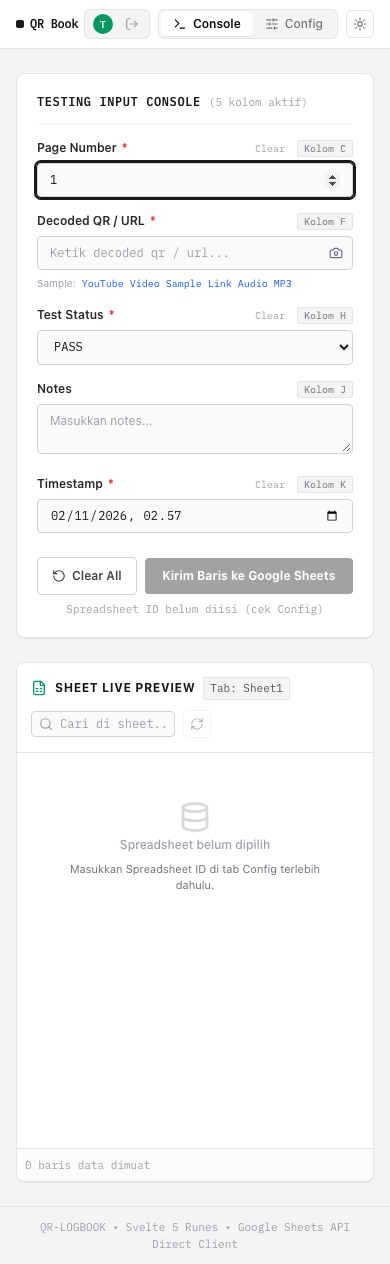
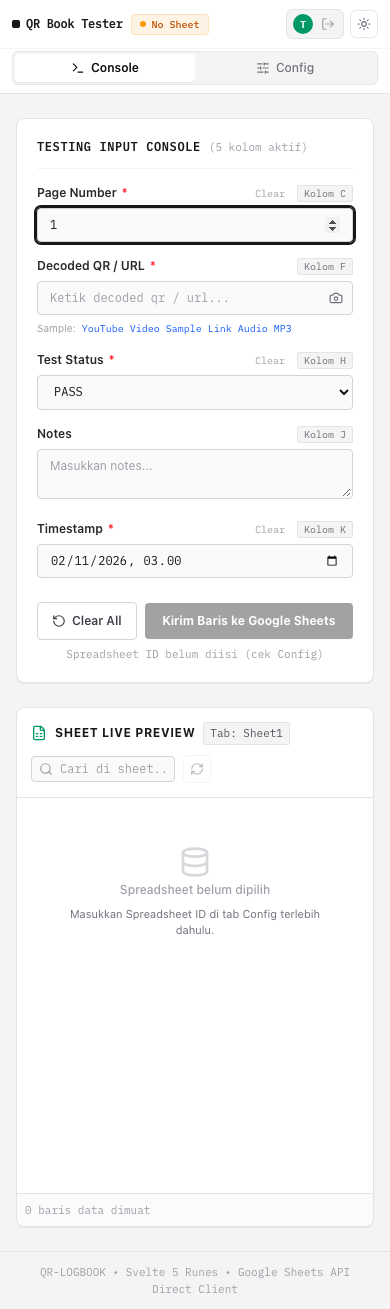
style(header): improve responsive layout with segmented mobile tabs

diff --git a/src/lib/components/Header.svelte b/src/lib/components/Header.svelte
@@ -25,7 +25,7 @@
 </script>
 
 <header class="border-b border-zinc-200 dark:border-zinc-800 bg-white dark:bg-zinc-950 sticky top-0 z-30 transition-colors">
-  <div class="max-w-[1240px] mx-auto px-4 sm:px-6 h-12 flex items-center justify-between">
+  <div class="max-w-[1240px] mx-auto px-3 sm:px-6 h-12 flex items-center justify-between gap-2">
     <!-- Brand & Spreadsheet Target ID -->
     <div class="flex items-center gap-2 sm:gap-3 min-w-0">
       <div class="flex items-center gap-1.5 shrink-0">
@@ -40,29 +40,30 @@
       <!-- Spreadsheet connection status badge -->
       {#if appState.config.spreadsheetId}
         <span
-          class="inline-flex items-center gap-1 text-[10px] sm:text-[11px] font-mono-data font-medium text-emerald-700 dark:text-emerald-400 bg-emerald-500/10 px-1.5 sm:px-2 py-0.5 rounded-sm border border-emerald-500/20 truncate"
+          class="inline-flex items-center gap-1.5 text-[10px] sm:text-[11px] font-mono-data font-medium text-emerald-700 dark:text-emerald-400 bg-emerald-500/10 px-2 py-0.5 rounded-sm border border-emerald-500/20 truncate max-w-[110px] sm:max-w-[260px]"
           title={`Target Spreadsheet: ${appState.config.spreadsheetId} (${appState.config.sheetName || 'Pilih Tab'})`}
         >
           <span class="w-1.5 h-1.5 rounded-full bg-emerald-500 shrink-0"></span>
           <span class="hidden sm:inline">Sheets: {appState.config.spreadsheetId.slice(0, 8)}... ({appState.config.sheetName || 'Tab belum dipilih'})</span>
-          <span class="sm:hidden">Sheets</span>
+          <span class="sm:hidden truncate">{appState.config.sheetName || 'Connected'}</span>
         </span>
       {:else}
         <span
-          class="inline-flex items-center gap-1 text-[10px] sm:text-[11px] font-mono-data font-medium text-amber-700 dark:text-amber-400 bg-amber-500/10 px-1.5 sm:px-2 py-0.5 rounded-sm border border-amber-500/20 truncate"
+          class="inline-flex items-center gap-1.5 text-[10px] sm:text-[11px] font-mono-data font-medium text-amber-700 dark:text-amber-400 bg-amber-500/10 px-2 py-0.5 rounded-sm border border-amber-500/20 truncate"
           title="Spreadsheet belum diisi. Masukkan di tab Config."
         >
           <span class="w-1.5 h-1.5 rounded-full bg-amber-500 shrink-0"></span>
-          <span>Spreadsheet Not Set</span>
+          <span class="hidden sm:inline">Spreadsheet Not Set</span>
+          <span class="sm:hidden">No Sheet</span>
         </span>
       {/if}
     </div>
 
-    <!-- Right Controls: Google OAuth Profile, Navigation & Theme -->
-    <div class="flex items-center gap-2">
+    <!-- Right Controls: Google OAuth Profile, Desktop Nav & Theme -->
+    <div class="flex items-center gap-1.5 sm:gap-2 shrink-0">
       <!-- Google Auth Button / User Profile -->
       {#if appState.user && appState.accessToken}
-        <div class="flex items-center gap-2 bg-zinc-100 dark:bg-zinc-900 px-2 py-1 rounded-md border border-zinc-200 dark:border-zinc-800">
+        <div class="flex items-center gap-1.5 bg-zinc-100 dark:bg-zinc-900 px-1.5 sm:px-2 py-1 rounded-md border border-zinc-200 dark:border-zinc-800">
           {#if appState.user.picture}
             <img
               src={appState.user.picture}
@@ -71,7 +72,7 @@
               class="w-5 h-5 rounded-full object-cover shrink-0 border border-zinc-200 dark:border-zinc-700"
             />
           {:else}
-            <div class="w-5 h-5 rounded-full bg-emerald-600 text-white text-[10px] font-bold flex items-center justify-center">
+            <div class="w-5 h-5 rounded-full bg-emerald-600 text-white text-[10px] font-bold flex items-center justify-center shrink-0">
               {appState.user.name?.[0]?.toUpperCase() || 'U'}
             </div>
           {/if}
@@ -80,9 +81,10 @@
           </span>
           <button
             type="button"
-            class="p-0.5 text-zinc-400 hover:text-red-600 dark:hover:text-red-400 transition-colors ml-0.5"
+            class="p-0.5 text-zinc-400 hover:text-red-600 dark:hover:text-red-400 transition-colors cursor-pointer"
             title={`Sign out (${appState.user.email})`}
             onclick={logoutGoogle}
+            aria-label="Sign out"
           >
             <LogOut class="w-3.5 h-3.5" />
           </button>
@@ -91,33 +93,34 @@
         <button
           type="button"
           disabled={isLoggingIn}
-          class="inline-flex items-center gap-1.5 px-2.5 py-1 text-xs font-semibold rounded-md bg-blue-600 text-white hover:bg-blue-700 transition-colors shadow-2xs disabled:opacity-50"
+          class="inline-flex items-center gap-1.5 px-2 sm:px-2.5 py-1 text-xs font-semibold rounded-md bg-blue-600 text-white hover:bg-blue-700 transition-colors shadow-2xs disabled:opacity-50 cursor-pointer"
           onclick={handleGoogleLogin}
         >
           <LogIn class="w-3.5 h-3.5" />
-          <span>{isLoggingIn ? 'Connecting...' : 'Sign in with Google'}</span>
+          <span class="hidden sm:inline">{isLoggingIn ? 'Connecting...' : 'Sign in with Google'}</span>
+          <span class="sm:hidden">{isLoggingIn ? '...' : 'Login'}</span>
         </button>
       {/if}
 
-      <!-- View Navigation -->
-      <nav class="flex items-center bg-zinc-100 dark:bg-zinc-900 p-0.5 rounded-md border border-zinc-200 dark:border-zinc-800" aria-label="Views">
+      <!-- Desktop View Navigation -->
+      <nav class="hidden sm:flex items-center bg-zinc-100 dark:bg-zinc-900 p-0.5 rounded-md border border-zinc-200 dark:border-zinc-800" aria-label="Desktop Views">
         <button
           type="button"
-          class="flex items-center gap-1.5 px-3 py-1 text-xs font-medium rounded-sm transition-colors {currentView === 'testing' ? 'bg-white dark:bg-zinc-800 text-zinc-950 dark:text-zinc-100 shadow-2xs font-semibold' : 'text-zinc-500 dark:text-zinc-400 hover:text-zinc-900 dark:hover:text-zinc-200'}"
+          class="flex items-center gap-1.5 px-3 py-1 text-xs font-medium rounded-sm transition-colors cursor-pointer {currentView === 'testing' ? 'bg-white dark:bg-zinc-800 text-zinc-950 dark:text-zinc-100 shadow-2xs font-semibold' : 'text-zinc-500 dark:text-zinc-400 hover:text-zinc-900 dark:hover:text-zinc-200'}"
           onclick={() => currentView = 'testing'}
         >
           <Terminal class="w-3.5 h-3.5" />
-          Console
+          <span>Console</span>
           <kbd class="hidden sm:inline-block text-[10px] opacity-40 font-mono-data">^1</kbd>
         </button>
         <button
           type="button"
           aria-label="Config & Mapping"
-          class="flex items-center gap-1.5 px-3 py-1 text-xs font-medium rounded-sm transition-colors {currentView === 'settings' ? 'bg-white dark:bg-zinc-800 text-zinc-950 dark:text-zinc-100 shadow-2xs font-semibold' : 'text-zinc-500 dark:text-zinc-400 hover:text-zinc-900 dark:hover:text-zinc-200'}"
+          class="flex items-center gap-1.5 px-3 py-1 text-xs font-medium rounded-sm transition-colors cursor-pointer {currentView === 'settings' ? 'bg-white dark:bg-zinc-800 text-zinc-950 dark:text-zinc-100 shadow-2xs font-semibold' : 'text-zinc-500 dark:text-zinc-400 hover:text-zinc-900 dark:hover:text-zinc-200'}"
           onclick={() => currentView = 'settings'}
         >
           <SlidersHorizontal class="w-3.5 h-3.5" />
-          Config
+          <span>Config</span>
           <kbd class="hidden sm:inline-block text-[10px] opacity-40 font-mono-data">^2</kbd>
         </button>
       </nav>
@@ -125,7 +128,7 @@
       <!-- Theme Switcher -->
       <button
         type="button"
-        class="p-1.5 rounded-md border border-zinc-200 dark:border-zinc-800 text-zinc-500 dark:text-zinc-400 hover:text-zinc-900 dark:hover:text-zinc-100 hover:bg-zinc-100 dark:hover:bg-zinc-900 transition-colors"
+        class="p-1.5 rounded-md border border-zinc-200 dark:border-zinc-800 text-zinc-500 dark:text-zinc-400 hover:text-zinc-900 dark:hover:text-zinc-100 hover:bg-zinc-100 dark:hover:bg-zinc-900 transition-colors cursor-pointer shrink-0"
         aria-label="Toggle dark/light theme"
         onclick={() => appState.toggleTheme()}
       >
@@ -136,5 +139,28 @@
         {/if}
       </button>
     </div>
+  </div>
+
+  <!-- Mobile View Navigation: Full-width Segmented Bar -->
+  <div class="sm:hidden px-3 pb-2 pt-0.5 border-t border-zinc-100 dark:border-zinc-900">
+    <nav class="grid grid-cols-2 p-0.5 rounded-md bg-zinc-100 dark:bg-zinc-900 border border-zinc-200/80 dark:border-zinc-800/80" aria-label="Mobile Views">
+      <button
+        type="button"
+        class="flex items-center justify-center gap-1.5 py-1.5 text-xs font-medium rounded-sm transition-colors cursor-pointer {currentView === 'testing' ? 'bg-white dark:bg-zinc-800 text-zinc-950 dark:text-zinc-100 shadow-2xs font-semibold' : 'text-zinc-500 dark:text-zinc-400 hover:text-zinc-900 dark:hover:text-zinc-200'}"
+        onclick={() => currentView = 'testing'}
+      >
+        <Terminal class="w-3.5 h-3.5" />
+        <span>Console</span>
+      </button>
+      <button
+        type="button"
+        aria-label="Config & Mapping"
+        class="flex items-center justify-center gap-1.5 py-1.5 text-xs font-medium rounded-sm transition-colors cursor-pointer {currentView === 'settings' ? 'bg-white dark:bg-zinc-800 text-zinc-950 dark:text-zinc-100 shadow-2xs font-semibold' : 'text-zinc-500 dark:text-zinc-400 hover:text-zinc-900 dark:hover:text-zinc-200'}"
+        onclick={() => currentView = 'settings'}
+      >
+        <SlidersHorizontal class="w-3.5 h-3.5" />
+        <span>Config</span>
+      </button>
+    </nav>
   </div>
 </header>
